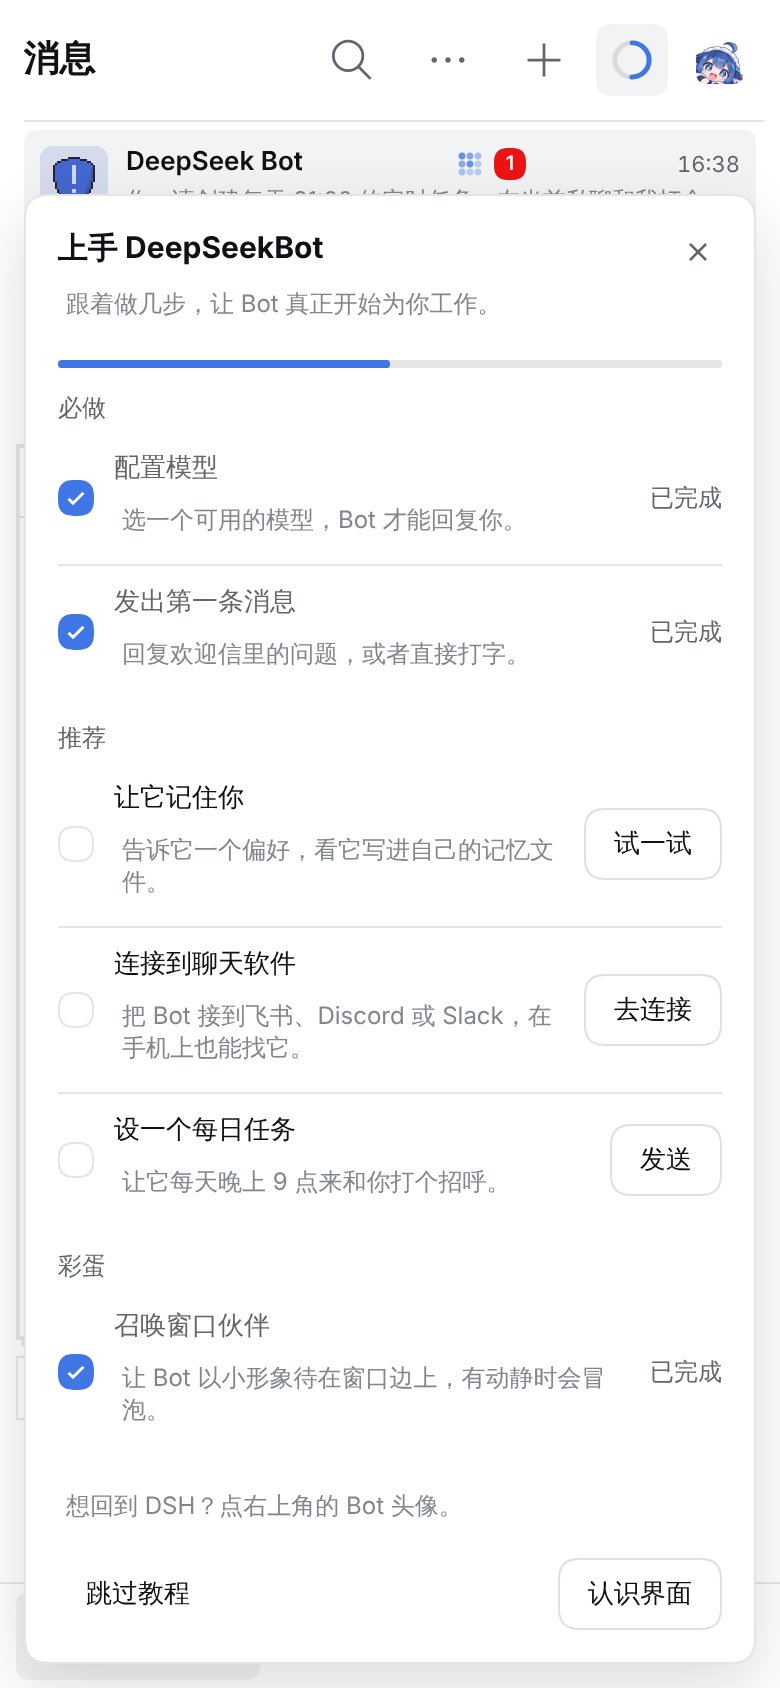
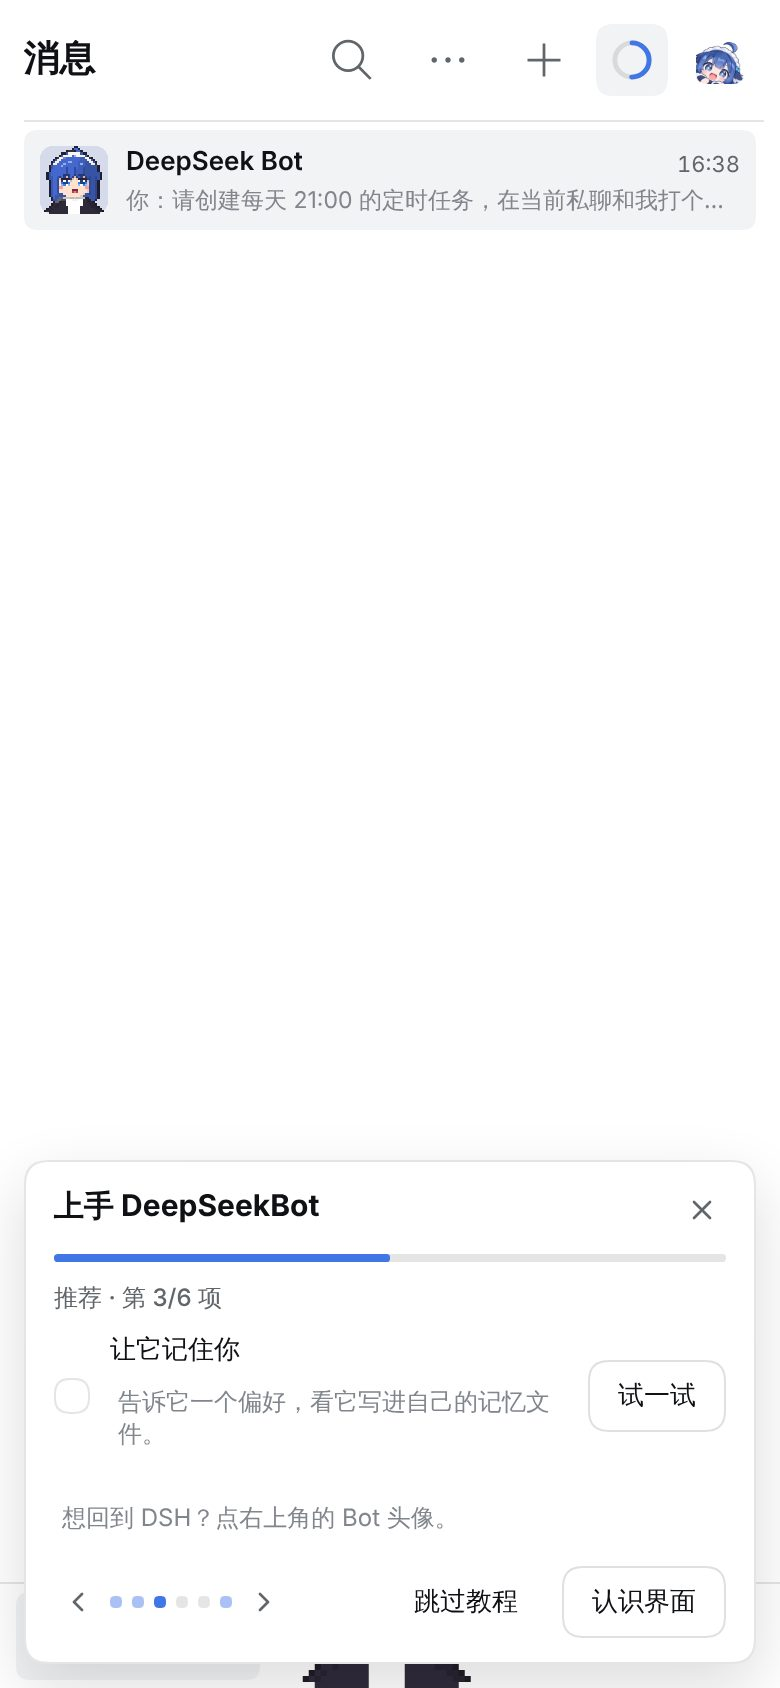
Page the mobile checklist one task at a time and use lucide ghost tour arrows
Claude-Session: https://claude.ai/code/session_01ESM96daH5L1MRcZs3geMQ6

diff --git a/packages/client/src/client/onboarding-checklist-view.tsx b/packages/client/src/client/onboarding-checklist-view.tsx
@@ -153,6 +153,7 @@ export function OnboardingChecklist({
   const state = useSyncExternalStore(controller.subscribe, controller.getSnapshot);
   const client = useSyncExternalStore(store.subscribe, store.getSnapshot);
   const [position, setPosition] = useState<Position>({ placement: 'sheet' });
+  const [page, setPage] = useState<number | undefined>(undefined);
   const mount = useMountedResource<HTMLDivElement>(
     (panel) => {
       setPosition(anchorPosition());
@@ -170,6 +171,7 @@ export function OnboardingChecklist({
       document.addEventListener('pointerdown', onPointerDown);
       document.addEventListener('keydown', onKeyDown);
       return () => {
+        setPage(undefined);
         window.removeEventListener('resize', reposition);
         document.removeEventListener('pointerdown', onPointerDown);
         document.removeEventListener('keydown', onKeyDown);
@@ -180,9 +182,69 @@ export function OnboardingChecklist({
   if (!state.checklistOpen || state.receipt === undefined || typeof document === 'undefined')
     return null;
   const evidence = state.evidence;
+  const completed = state.receipt.completed;
   const total = CHECKLIST_ITEMS.length;
   const done = checklistDone(evidence);
   const busy = state.busy || client.conversation.sending;
+  const itemState = (item: ChecklistItem): 'done' | 'locked' | 'todo' =>
+    evidence?.[item] === true
+      ? 'done'
+      : CHECKLIST_NEEDS_CONVERSATION.has(item) && !completed
+        ? 'locked'
+        : 'todo';
+  const renderItem = (item: ChecklistItem): ReactElement => {
+    const status = itemState(item);
+    const action = itemAction(item, controller, t);
+    return (
+      <li key={item} className="bh-onboarding-checklist-item" data-item={item} data-state={status}>
+        <span className="bh-onboarding-checklist-mark" aria-hidden>
+          {status === 'done' ? (
+            <svg
+              viewBox="0 0 24 24"
+              width="12"
+              height="12"
+              fill="none"
+              stroke="currentColor"
+              strokeWidth="2"
+              strokeLinecap="round"
+              strokeLinejoin="round"
+              aria-hidden
+            >
+              <path d="M20 6 9 17l-5-5" />
+            </svg>
+          ) : null}
+        </span>
+        <span className="bh-onboarding-checklist-text">
+          <span className="bh-onboarding-checklist-name">
+            {t(`onboarding.checklist.${item}.title` as BotHarnessKey)}
+          </span>
+          <span className="bh-note">
+            {status === 'locked'
+              ? t('onboarding.checklist.locked')
+              : t(`onboarding.checklist.${item}.hint` as BotHarnessKey)}
+          </span>
+        </span>
+        {status === 'done' ? (
+          <span className="bh-onboarding-checklist-status">{t('onboarding.checklist.done')}</span>
+        ) : (
+          <Button
+            variant="outline"
+            disabled={status === 'locked' || busy || action === undefined}
+            onClick={action}
+          >
+            {t(`onboarding.checklist.${item}.action` as BotHarnessKey)}
+          </Button>
+        )}
+      </li>
+    );
+  };
+  const compact = position.placement === 'sheet';
+  const nextIndex = Math.max(
+    0,
+    CHECKLIST_ITEMS.findIndex((item) => itemState(item) === 'todo'),
+  );
+  const index = Math.min(page ?? nextIndex, total - 1);
+  const pageItem = CHECKLIST_ITEMS[index]!;
   return createPortal(
     <div
       ref={mount}
@@ -197,7 +259,7 @@ export function OnboardingChecklist({
       <header className="bh-onboarding-checklist-header">
         <div className="bh-onboarding-checklist-heading">
           <strong>{t('onboarding.checklist.title')}</strong>
-          <span className="bh-note">{t('onboarding.checklist.subtitle')}</span>
+          {compact ? null : <span className="bh-note">{t('onboarding.checklist.subtitle')}</span>}
         </div>
         <button
           type="button"
@@ -206,8 +268,19 @@ export function OnboardingChecklist({
           title={t('common.close')}
           onClick={() => controller.closeChecklist()}
         >
-          <svg viewBox="0 0 16 16" width="16" height="16" aria-hidden>
-            <path d="M4 4l8 8M12 4l-8 8" stroke="currentColor" strokeWidth="1.25" />
+          <svg
+            viewBox="0 0 24 24"
+            width="16"
+            height="16"
+            fill="none"
+            stroke="currentColor"
+            strokeWidth="2"
+            strokeLinecap="round"
+            strokeLinejoin="round"
+            aria-hidden
+          >
+            <path d="M18 6 6 18" />
+            <path d="m6 6 12 12" />
           </svg>
         </button>
       </header>
@@ -224,71 +297,85 @@ export function OnboardingChecklist({
       >
         <span style={{ width: `${(done / total) * 100}%` }} />
       </div>
-      {TIERS.map((tier) => (
-        <section key={tier} className="bh-onboarding-checklist-tier">
-          <h3>{t(`onboarding.checklist.tier.${tier}` as BotHarnessKey)}</h3>
-          <ul>
-            {CHECKLIST_ITEMS.filter((item) => CHECKLIST_TIER[item] === tier).map((item) => {
-              const complete = evidence?.[item] === true;
-              const locked =
-                !complete && CHECKLIST_NEEDS_CONVERSATION.has(item) && !state.receipt?.completed;
-              const action = itemAction(item, controller, t);
-              return (
-                <li
-                  key={item}
-                  className="bh-onboarding-checklist-item"
-                  data-item={item}
-                  data-state={complete ? 'done' : locked ? 'locked' : 'todo'}
-                >
-                  <span className="bh-onboarding-checklist-mark" aria-hidden>
-                    {complete ? (
-                      <svg viewBox="0 0 16 16" width="12" height="12" aria-hidden>
-                        <path
-                          d="M3 8.5l3 3 7-7"
-                          fill="none"
-                          stroke="currentColor"
-                          strokeWidth="2"
-                        />
-                      </svg>
-                    ) : null}
-                  </span>
-                  <span className="bh-onboarding-checklist-text">
-                    <span className="bh-onboarding-checklist-name">
-                      {t(`onboarding.checklist.${item}.title` as BotHarnessKey)}
-                    </span>
-                    <span className="bh-note">
-                      {locked
-                        ? t('onboarding.checklist.locked')
-                        : t(`onboarding.checklist.${item}.hint` as BotHarnessKey)}
-                    </span>
-                  </span>
-                  {complete ? (
-                    <span className="bh-onboarding-checklist-status">
-                      {t('onboarding.checklist.done')}
-                    </span>
-                  ) : (
-                    <Button
-                      variant="outline"
-                      disabled={locked || busy || action === undefined}
-                      onClick={action}
-                    >
-                      {t(`onboarding.checklist.${item}.action` as BotHarnessKey)}
-                    </Button>
-                  )}
-                </li>
-              );
+      {compact ? (
+        <section className="bh-onboarding-checklist-tier" data-page={pageItem}>
+          <h3>
+            {t(`onboarding.checklist.tier.${CHECKLIST_TIER[pageItem]}` as BotHarnessKey)}
+            {' · '}
+            {t('onboarding.checklist.page', {
+              current: String(index + 1),
+              total: String(total),
             })}
-          </ul>
+          </h3>
+          <ul>{renderItem(pageItem)}</ul>
         </section>
-      ))}
+      ) : (
+        TIERS.map((tier) => (
+          <section key={tier} className="bh-onboarding-checklist-tier">
+            <h3>{t(`onboarding.checklist.tier.${tier}` as BotHarnessKey)}</h3>
+            <ul>
+              {CHECKLIST_ITEMS.filter((item) => CHECKLIST_TIER[item] === tier).map(renderItem)}
+            </ul>
+          </section>
+        ))
+      )}
       <p className="bh-note bh-onboarding-checklist-exit">
-        {t(
-          position.placement === 'sheet'
-            ? 'onboarding.checklist.exitHintMobile'
-            : 'onboarding.checklist.exitHint',
-        )}
+        {t(compact ? 'onboarding.checklist.exitHintMobile' : 'onboarding.checklist.exitHint')}
       </p>
       <footer className="bh-onboarding-checklist-footer">
+        {compact ? (
+          <span className="bh-onboarding-checklist-pager">
+            <button
+              type="button"
+              className="bh-onboarding-checklist-close"
+              aria-label={t('onboarding.checklist.prev')}
+              title={t('onboarding.checklist.prev')}
+              disabled={index === 0}
+              onClick={() => setPage(index - 1)}
+            >
+              <svg
+                viewBox="0 0 24 24"
+                width="16"
+                height="16"
+                fill="none"
+                stroke="currentColor"
+                strokeWidth="2"
+                strokeLinecap="round"
+                strokeLinejoin="round"
+                aria-hidden
+              >
+                <path d="m15 18-6-6 6-6" />
+              </svg>
+            </button>
+            <span className="bh-onboarding-checklist-dots" aria-hidden>
+              {CHECKLIST_ITEMS.map((item, dot) => (
+                <span key={item} data-state={itemState(item)} data-current={dot === index} />
+              ))}
+            </span>
+            <button
+              type="button"
+              className="bh-onboarding-checklist-close"
+              aria-label={t('onboarding.checklist.next')}
+              title={t('onboarding.checklist.next')}
+              disabled={index === total - 1}
+              onClick={() => setPage(index + 1)}
+            >
+              <svg
+                viewBox="0 0 24 24"
+                width="16"
+                height="16"
+                fill="none"
+                stroke="currentColor"
+                strokeWidth="2"
+                strokeLinecap="round"
+                strokeLinejoin="round"
+                aria-hidden
+              >
+                <path d="m9 18 6-6-6-6" />
+              </svg>
+            </button>
+          </span>
+        ) : null}
         <Button variant="ghost" onClick={() => controller.skipTutorial()}>
           {t('onboarding.checklist.skip')}
         </Button>

diff --git a/packages/client/src/client/styles.ts b/packages/client/src/client/styles.ts
@@ -151,6 +151,15 @@ html[data-botharness-motion='reduce'] .bh-onboarding-enter-dot { animation: none
 .bh-onboarding-checklist-status { font-size: 12px; color: var(--dsw-alias-label-secondary); }
 .bh-onboarding-checklist-exit { margin: 0; font-size: 12px; line-height: 16px; }
 .bh-onboarding-checklist-footer { display: flex; justify-content: space-between; gap: 8px; }
+.bh-onboarding-checklist[data-placement='sheet'] { gap: 10px; padding: 12px 14px; }
+.bh-onboarding-checklist[data-placement='sheet'] .bh-onboarding-checklist-item { padding: 4px 0; }
+.bh-onboarding-checklist[data-placement='sheet'] .bh-onboarding-checklist-footer { align-items: center; justify-content: flex-end; }
+.bh-onboarding-checklist-pager { display: inline-flex; align-items: center; gap: 4px; margin-right: auto; }
+.bh-onboarding-checklist-pager .bh-onboarding-checklist-close:disabled { opacity: 0.35; cursor: default; }
+.bh-onboarding-checklist-dots { display: inline-flex; gap: 5px; }
+.bh-onboarding-checklist-dots > span { width: 6px; height: 6px; border-radius: 50%; background: var(--bh-onboarding-border); }
+.bh-onboarding-checklist-dots > span[data-state='done'] { background: color-mix(in srgb, var(--bh-accent) 45%, transparent); }
+.bh-onboarding-checklist-dots > span[data-current='true'] { background: var(--bh-accent); }
 .bh-onboarding-actions { display: flex; gap: 8px; align-items: center; flex-wrap: wrap; }
 .bh-bubble:has(> .bh-onboarding-welcome) { padding: 0; background: transparent; }
 .bh-onboarding-welcome { display: grid; gap: 12px; width: 380px; max-width: 100%; white-space: normal; line-height: 20px; border: 1px solid var(--bh-onboarding-border); border-radius: 16px; background: var(--dsw-alias-bg-module-platform); overflow: hidden; }

diff --git a/packages/client/test/onboarding-overlay.test.ts b/packages/client/test/onboarding-overlay.test.ts
@@ -42,10 +42,17 @@ beforeEach(() => {
   root = createRoot(container);
   store.setMode('bot');
   store.setConversation({ sending: false });
+  const nav = document.createElement('nav');
+  const row = document.createElement('span');
+  row.dataset['bhOnboardingLauncher'] = 'row';
+  row.getBoundingClientRect = () => ({ width: 18, right: 240, top: 80 }) as DOMRect;
+  nav.append(row);
+  document.body.append(nav);
 });
 afterEach(async () => {
   await act(async () => root.unmount());
   container.remove();
+  document.querySelector('nav')?.remove();
 });
 function harness(tutorial: OnboardingSnapshot['tutorial'], completed = false) {
   const shared: OnboardingSnapshot = {
@@ -241,4 +248,22 @@ it('does not count a profile-only Memory commit as the Bot remembering something
   await act(async () => controller.refreshEvidence());
   await flush();
   expect(itemState('memory')).toBe('done');
+});
+it('shows one task per page in the mobile sheet and starts on the next open task', async () => {
+  document.querySelector('nav')?.remove();
+  const { render } = harness('not-started');
+  await render();
+  await flush();
+  expect(checklist()?.dataset['placement']).toBe('sheet');
+  expect(
+    [...checklist()!.querySelectorAll<HTMLElement>('[data-item]')].map(
+      (node) => node.dataset['item'],
+    ),
+  ).toEqual(['conversation']);
+  const next = checklist()!.querySelector<HTMLButtonElement>(
+    `[aria-label="${zhTranslate('onboarding.checklist.next')}"]`,
+  )!;
+  await act(async () => next.click());
+  expect(itemState('memory')).toBe('locked');
+  expect(checklist()!.querySelectorAll('[data-item]')).toHaveLength(1);
 });

diff --git a/packages/client/src/client/internal-tour-styles.ts b/packages/client/src/client/internal-tour-styles.ts
@@ -18,7 +18,8 @@ export const INTERNAL_TOUR_CSS = `
 .bh-internal-tour .driver-popover-progress-text { flex: 0 0 auto; white-space: nowrap; }
 .bh-internal-tour .driver-popover-navigation-btns { align-items: center; gap: 6px; min-width: 0; }
 .bh-internal-tour .driver-popover-navigation-btns button+button { margin-left: 0; }
-.bh-internal-tour .driver-popover-footer .bh-internal-tour-navigation { display: inline-flex; align-items: center; justify-content: center; flex: 0 0 28px; width: 28px; height: 28px; padding: 0; }
+.bh-internal-tour .driver-popover-footer .bh-internal-tour-navigation { display: inline-flex; align-items: center; justify-content: center; flex: 0 0 28px; width: 28px; height: 28px; padding: 0; border: 0; border-radius: 6px; background: transparent; text-shadow: none; color: var(--bh-tour-muted); }
+.bh-internal-tour .driver-popover-footer .bh-internal-tour-navigation:hover,.bh-internal-tour .driver-popover-footer .bh-internal-tour-navigation:focus-visible { background: var(--bh-tour-hover); color: var(--bh-tour-text); }
 .bh-internal-tour .driver-popover-footer .bh-internal-tour-skip { border: 0; background: none; text-shadow: none; padding: 3px 0; margin-right: auto; white-space: nowrap; color: var(--bh-tour-muted); }
 .bh-internal-tour .driver-popover-footer .bh-internal-tour-skip:hover,.bh-internal-tour .driver-popover-footer .bh-internal-tour-skip:focus-visible { color: var(--bh-tour-text); text-decoration: underline; }
 @media (prefers-reduced-motion: reduce) { .driver-fade .driver-overlay, .driver-fade .driver-popover { animation: none; } }

diff --git a/packages/client/src/client/internal-tour.ts b/packages/client/src/client/internal-tour.ts
@@ -26,9 +26,9 @@ export interface InternalTourOptions {
 const FIRST_STEP_TIMEOUT_MS = 4000;
 
 const TOUR_ICON_PATHS = {
-  previous: 'M10 4L6.70711 7.29289C6.31658 7.68342 6.31658 8.31658 6.70711 8.70711L10 12',
-  next: 'M6 12L9.29289 8.70711C9.68342 8.31658 9.68342 7.68342 9.29289 7.29289L6 4',
-  done: 'M2.25 8.5L5.49732 11.7473C5.90519 12.1552 6.57263 12.1344 6.95426 11.7018L13.75 4',
+  previous: 'm15 18-6-6 6-6',
+  next: 'm9 18 6-6-6-6',
+  done: 'M20 6 9 17l-5-5',
 };
 
 function setNavigationIcon(
@@ -38,7 +38,7 @@ function setNavigationIcon(
   pathData: string,
 ): void {
   const svg = doc.createElementNS('http://www.w3.org/2000/svg', 'svg');
-  svg.setAttribute('viewBox', '0 0 16 16');
+  svg.setAttribute('viewBox', '0 0 24 24');
   svg.setAttribute('width', '16');
   svg.setAttribute('height', '16');
   svg.setAttribute('fill', 'none');
@@ -46,7 +46,9 @@ function setNavigationIcon(
   const path = doc.createElementNS('http://www.w3.org/2000/svg', 'path');
   path.setAttribute('d', pathData);
   path.setAttribute('stroke', 'currentColor');
-  path.setAttribute('stroke-width', '1');
+  path.setAttribute('stroke-width', '2');
+  path.setAttribute('stroke-linecap', 'round');
+  path.setAttribute('stroke-linejoin', 'round');
   svg.append(path);
   button.replaceChildren(svg);
   button.classList.add('bh-internal-tour-navigation');

diff --git a/packages/client/src/client/locale.ts b/packages/client/src/client/locale.ts
@@ -232,6 +232,9 @@ export const zh = {
   'onboarding.checklist.skip': '跳过教程',
   'onboarding.checklist.exitHint': '想回到 DSH？再点一次侧栏的「Bot 模式」。',
   'onboarding.checklist.exitHintMobile': '想回到 DSH？点右上角的 Bot 头像。',
+  'onboarding.checklist.page': '第 {current}/{total} 项',
+  'onboarding.checklist.prev': '上一项',
+  'onboarding.checklist.next': '下一项',
   'onboarding.enter.title': '试试看',
   'onboarding.enter.hint': '点这里进入 Bot 模式，认识你的专属 Bot。',
   'onboarding.inherit': '继承全局',
@@ -3142,6 +3145,9 @@ export const en = {
   'onboarding.checklist.skip': 'Skip tutorial',
   'onboarding.checklist.exitHint': 'Back to DSH? Click "Bot mode" in the sidebar again.',
   'onboarding.checklist.exitHintMobile': 'Back to DSH? Tap the Bot icon at the top right.',
+  'onboarding.checklist.page': 'Step {current} of {total}',
+  'onboarding.checklist.prev': 'Previous step',
+  'onboarding.checklist.next': 'Next step',
   'onboarding.enter.title': 'Try it',
   'onboarding.enter.hint': 'Click here to enter Bot mode and meet your personal Bot.',
   'onboarding.inherit': 'Inherit global',

diff --git a/packages/client/src/client/onboarding.ts b/packages/client/src/client/onboarding.ts
@@ -182,6 +182,7 @@ export class OnboardingController {
   summonCompanion(): void {
     const target = this.target();
     if (!target || !this.companion) return;
+    this.closeChecklistForAction();
     void this.companion.start().then(() => {
       this.companion?.select(target.slug);
       this.syncCompanionEvidence();
